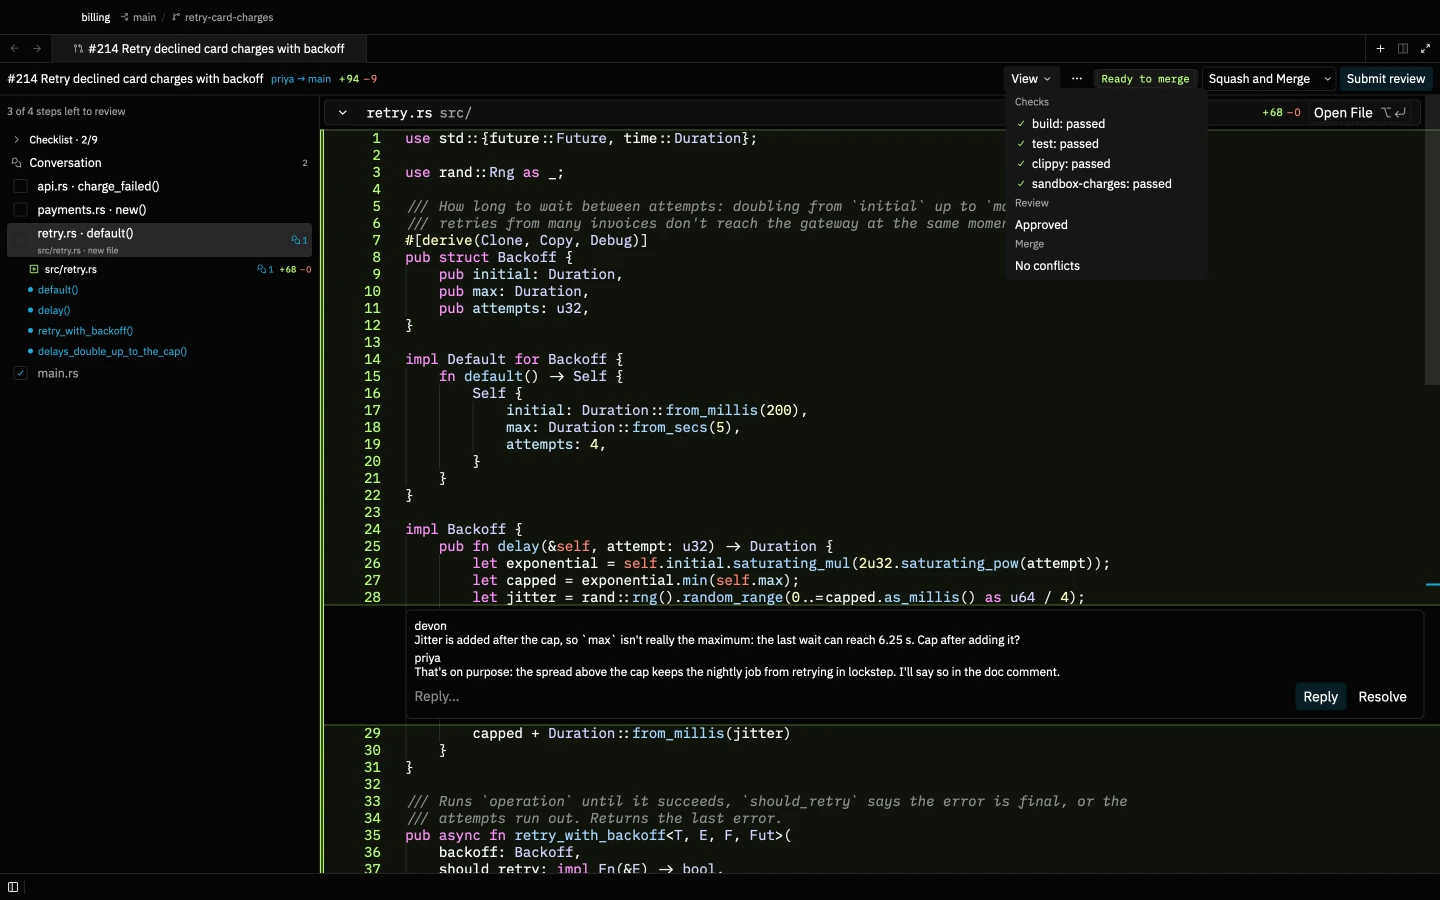
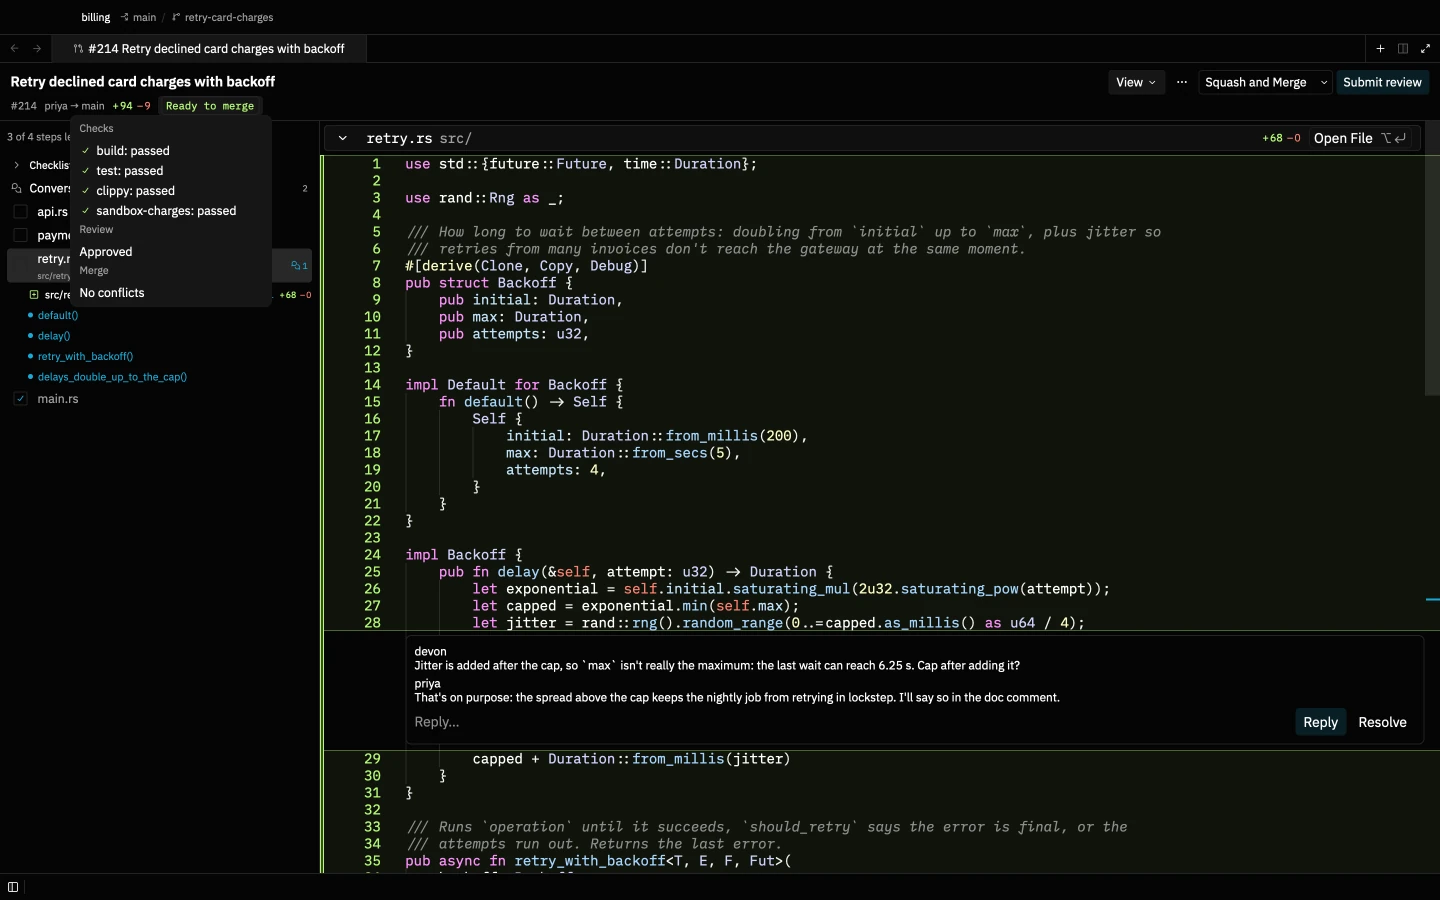
PR review: a prominent title, and the description read first
The header gives the title its own line at a larger size, wrapping up to
three lines with the full title in a tooltip; number, author → base, diff
stat and the readiness pill sit on a quieter row below. The Conversation
view shows the description at a comfortable line length, apart from the
activity. A PR opened for the first time with a description opens on
Conversation. Screenshots regenerated.

diff --git a/crates/photon_review/src/review.rs b/crates/photon_review/src/review.rs
@@ -712,6 +712,9 @@ async fn place_review(
                     project, detail, login, checkout, files, database, window, cx,
                 );
                 item.set_team_checklists(team_checklists, team_error, cx);
+                if item.opens_on_conversation() {
+                    item.open_conversation(window, cx);
+                }
                 item
             });
             let pane = existing.as_ref().and_then(|existing| {
@@ -1600,6 +1603,17 @@ impl ReviewItem {
         this._context_task = this.load_context(cx);
         this._reanchor_task = this.reanchor_drafts(cx);
         this
+    }
+
+    /// A first look at a PR reads its description before the code: nothing viewed, no review
+    /// of yours, no drafts, and there is a description to read.
+    pub fn opens_on_conversation(&self) -> bool {
+        !self.detail.body.trim().is_empty()
+            && self.last_review.is_none()
+            && self.drafts.is_empty()
+            && self.viewed_steps.is_empty()
+            && self.viewed_heads.is_empty()
+            && !self.detail.files.iter().any(|file| file.viewed)
     }
 
     pub fn changes_since_review_offered(&self) -> bool {
@@ -4921,37 +4935,59 @@ impl ReviewItem {
     fn render_header(&self, cx: &Context<Self>) -> impl IntoElement {
         let summary = &self.detail.summary;
         let files = self.all_files().len();
+        let title = SharedString::from(summary.title.clone());
         h_flex()
-            .gap_2()
-            .px_2()
-            .py_1()
+            .items_start()
+            .gap_3()
+            .px_3()
+            .pt_2()
+            .pb_1p5()
             .border_b_1()
             .border_color(cx.theme().colors().border)
             .child(
-                h_flex()
+                v_flex()
                     .flex_1()
                     .min_w_0()
-                    .gap_2()
-                    .child(div().min_w_0().child(
-                        Label::new(format!("#{} {}", summary.key.number, summary.title)).truncate(),
-                    ))
+                    .gap_1()
                     .child(
-                        div().flex_none().child(
-                            Label::new(format!("{} → {}", summary.author, summary.base_ref))
-                                .size(LabelSize::Small)
-                                .color(Color::Accent),
-                        ),
+                        div()
+                            .id("photon-review-title")
+                            .debug_selector(|| "photon-review-title".into())
+                            .min_w_0()
+                            .tooltip(Tooltip::text(title.clone()))
+                            .child(
+                                Label::new(title)
+                                    .size(LabelSize::Large)
+                                    .weight(gpui::FontWeight::SEMIBOLD)
+                                    .line_clamp(3),
+                            ),
                     )
                     .child(
-                        ui::DiffStat::new(
-                            "photon-review-diff-stat",
-                            usize::try_from(self.detail.additions).unwrap_or(usize::MAX),
-                            usize::try_from(self.detail.deletions).unwrap_or(usize::MAX),
-                        )
-                        .tooltip(format!(
-                            "{files} file{} changed",
-                            if files == 1 { "" } else { "s" }
-                        )),
+                        h_flex()
+                            .gap_2()
+                            .flex_wrap()
+                            .child(
+                                Label::new(format!("#{}", summary.key.number))
+                                    .size(LabelSize::Small)
+                                    .color(Color::Muted),
+                            )
+                            .child(
+                                Label::new(format!("{} → {}", summary.author, summary.base_ref))
+                                    .size(LabelSize::Small)
+                                    .color(Color::Muted),
+                            )
+                            .child(
+                                ui::DiffStat::new(
+                                    "photon-review-diff-stat",
+                                    usize::try_from(self.detail.additions).unwrap_or(usize::MAX),
+                                    usize::try_from(self.detail.deletions).unwrap_or(usize::MAX),
+                                )
+                                .tooltip(format!(
+                                    "{files} file{} changed",
+                                    if files == 1 { "" } else { "s" }
+                                )),
+                            )
+                            .child(self.render_readiness()),
                     ),
             )
             .child(
@@ -4960,7 +4996,6 @@ impl ReviewItem {
                     .gap_1()
                     .child(self.render_view_menu(cx))
                     .child(self.render_more_menu(cx))
-                    .child(self.render_readiness())
                     .children(self.render_merge(cx))
                     .child(self.render_submit_controls(cx)),
             )
@@ -6384,12 +6419,21 @@ impl ReviewItem {
                 .child(Label::new(author).size(LabelSize::Small))
                 .child(Label::new(time).size(LabelSize::XSmall).color(Color::Muted))
         };
-        let description = div()
+        let description = v_flex()
             .debug_selector(|| "photon-review-description".into())
-            .pb_2()
+            .gap_2()
+            .pb_4()
             .border_b_1()
             .border_color(colors.border_variant)
-            .child(byline(self.detail.summary.author.clone(), String::new()))
+            .child(
+                h_flex()
+                    .gap_1()
+                    .child(
+                        Label::new(self.detail.summary.author.clone())
+                            .weight(gpui::FontWeight::SEMIBOLD),
+                    )
+                    .child(Label::new("opened this pull request").color(Color::Muted)),
+            )
             .child(if self.detail.body.trim().is_empty() {
                 Label::new("No description provided.")
                     .size(LabelSize::Small)
@@ -6471,11 +6515,23 @@ impl ReviewItem {
                     .flex_1()
                     .min_h_0()
                     .overflow_y_scroll()
-                    .p_3()
-                    .gap_3()
-                    .child(description)
-                    .children(events)
-                    .children(status),
+                    .px_6()
+                    .py_4()
+                    .child(
+                        // A comfortable line length for prose, however wide the pane.
+                        v_flex()
+                            .w_full()
+                            .max_w(px(760.))
+                            .gap_3()
+                            .child(description)
+                            .child(
+                                Label::new("Activity")
+                                    .size(LabelSize::Small)
+                                    .color(Color::Muted),
+                            )
+                            .children(events)
+                            .children(status),
+                    ),
             )
             .child(
                 v_flex()
@@ -7953,6 +8009,8 @@ fn verify_password(user: &str, password: &str) -> bool {
         window: gpui::WindowHandle<MultiWorkspace>,
         user_workspace: Entity<Workspace>,
         /// The head the inbox shows, when it lags behind GitHub.
+        /// What GitHub answers for the PR.
+        detail: String,
         inbox_head: Option<String>,
         cx: VisualTestContext,
     }
@@ -7996,13 +8054,14 @@ fn verify_password(user: &str, password: &str) -> bool {
             window,
             user_workspace,
             inbox_head: None,
+            detail: DETAIL.to_string(),
             cx,
         })
     }
 
     impl ReloadSetup {
         fn summary(&self) -> PrSummary {
-            let mut summary = parse_detail(&key(), DETAIL).expect("detail").summary;
+            let mut summary = parse_detail(&key(), &self.detail).expect("detail").summary;
             summary.head_sha = self
                 .inbox_head
                 .clone()
@@ -8028,7 +8087,7 @@ fn verify_password(user: &str, password: &str) -> bool {
                         .as_deref()
                         .is_some_and(|stdin| stdin.contains("pullRequest"))
                 },
-                Ok(DETAIL.into()),
+                Ok(self.detail.clone()),
             );
             let summary = self.summary();
             let fetch_url = self.fixture.upstream_url.clone();
@@ -8297,6 +8356,57 @@ fn verify_password(user: &str, password: &str) -> bool {
             .review()
             .read_with(&setup.cx, |item, _| item.checkout.head_sha.clone());
         assert_eq!(head, setup.fixture.pr_sha);
+    }
+
+    /// The fixture PR as it looks to someone who never reviewed it or viewed a file.
+    fn unseen_detail() -> String {
+        let detail = DETAIL
+            .replace("\"VIEWED\"", "\"UNVIEWED\"")
+            .replace(
+                "\"reviews\": {\n     \"nodes\": [\n      {\n       \"commit\": {\n        \"oid\": \"a1\"\n       }\n      }\n     ]\n    }",
+                "\"reviews\": {\n     \"nodes\": []\n    }",
+            );
+        let summary = parse_detail(&key(), &detail).expect("detail").summary;
+        assert_eq!(
+            summary.last_review_commit, None,
+            "the fixture changed shape"
+        );
+        detail
+    }
+
+    #[gpui::test]
+    async fn a_first_open_starts_on_the_description(cx: &mut TestAppContext) {
+        let Some(mut setup) = reload_setup("a_first_open_starts_on_the_description", cx).await
+        else {
+            return;
+        };
+        setup.detail = unseen_detail();
+        setup.open(None).await.expect("opened");
+        let review = setup.review();
+        assert!(review.read_with(&setup.cx, |item, _| item.conversation_open));
+        assert!(drawn("photon-review-description", &mut setup.cx));
+    }
+
+    #[gpui::test]
+    async fn a_later_open_keeps_its_usual_step(cx: &mut TestAppContext) {
+        let Some(mut setup) = reload_setup("a_later_open_keeps_its_usual_step", cx).await else {
+            return;
+        };
+        // GitHub has a review of yours and a viewed file.
+        setup.open_first_head().await;
+        let review = setup.review();
+        assert!(!review.read_with(&setup.cx, |item, _| item.conversation_open));
+        assert!(!drawn("photon-review-description", &mut setup.cx));
+        // The title has a line of its own, taller than the details row below it.
+        let title = setup
+            .cx
+            .debug_bounds("photon-review-title")
+            .expect("title drawn");
+        let stat = setup
+            .cx
+            .debug_bounds("photon-review-readiness")
+            .expect("readiness drawn");
+        assert!(title.bottom() <= stat.top(), "{title:?} {stat:?}");
     }
 
     fn worktree_trusted(project: &Entity<Project>, cx: &mut TestAppContext) -> bool {
